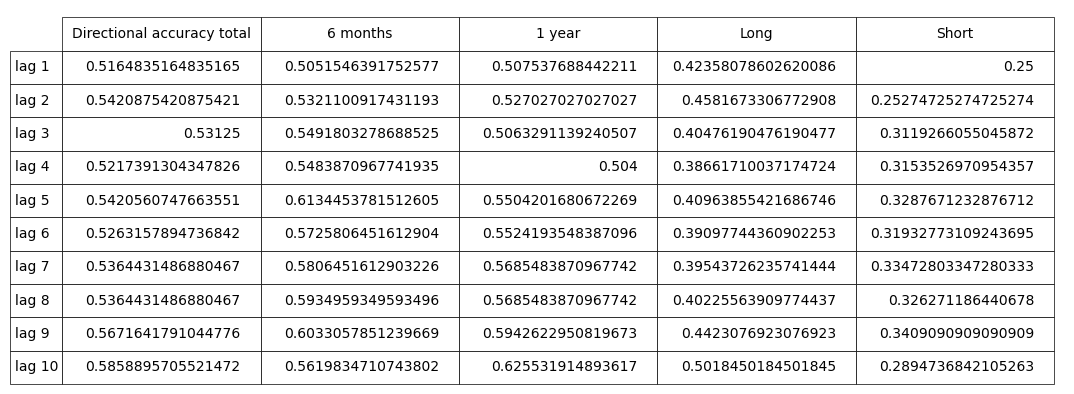
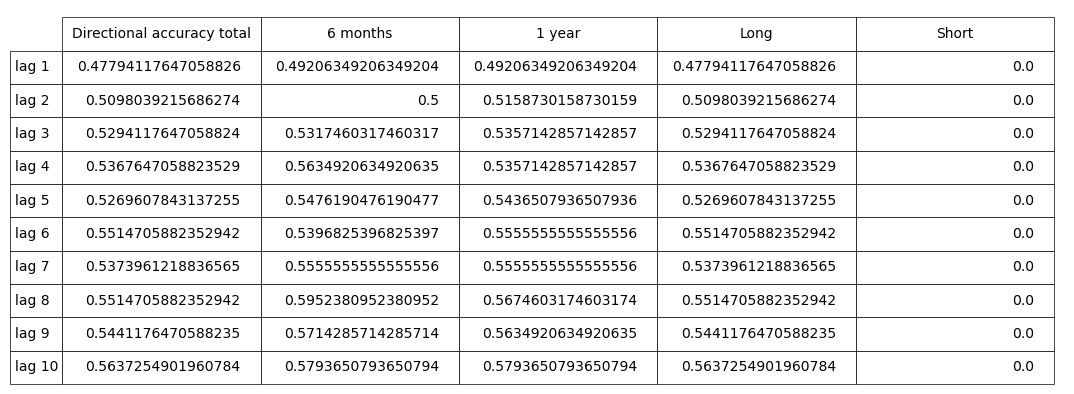
applied mean logic for run_command_5

diff --git a/run_commands/run_command_5.py b/run_commands/run_command_5.py
@@ -15,8 +15,9 @@ from distutils.dir_util import copy_tree
 log = logging.getLogger('werkzeug')
 log.setLevel(logging.ERROR)
 
-
 testing = False
+directional_orientation = True
+use_means = True
 
 if testing == True:
     df = pd.read_excel(r'inputs/init_test.xlsx')
@@ -45,7 +46,8 @@ for x in range(len(df.index)):
     epo = int(df.loc[x, 'EPOCHS'])
     interval = df.loc[x, 'INTERVAL']
 
-    i = InitiateResearch(asset, df_type, [pd], [fd], epo, testing, source, interval, True)
+    i = InitiateResearch(asset, df_type, [pd], [fd], epo, testing, source, interval, custom_layers=True,
+                         directional_orientation=directional_orientation, use_means=use_means)
     research_dict = i._initialize_training()
     self_container[research_dict['unique_name']] = research_dict
     """
